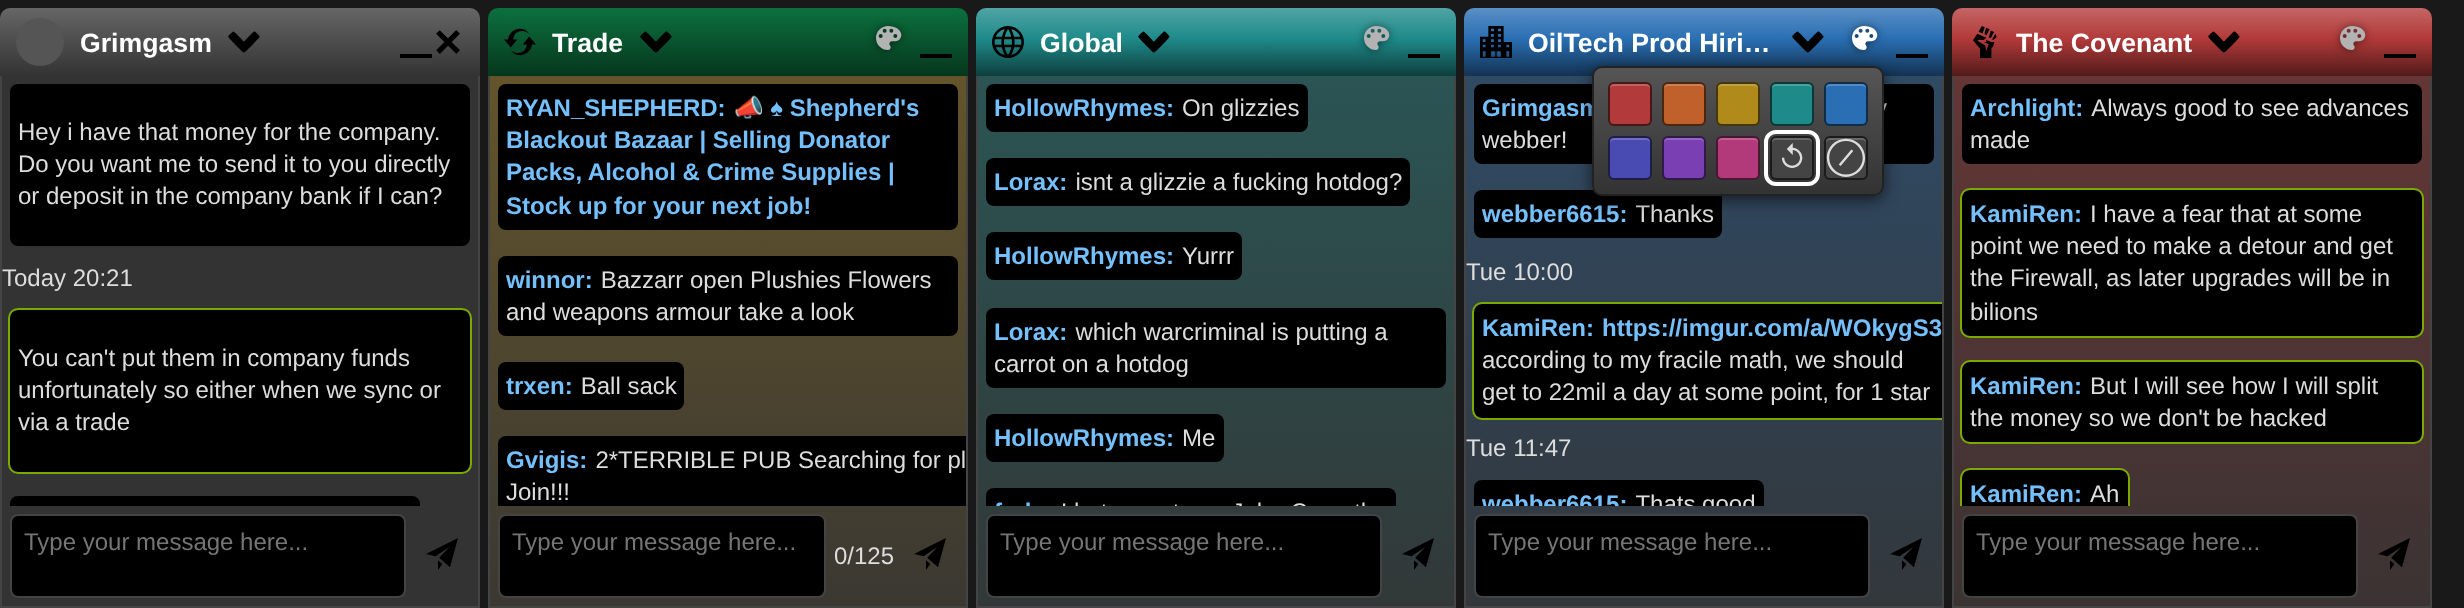
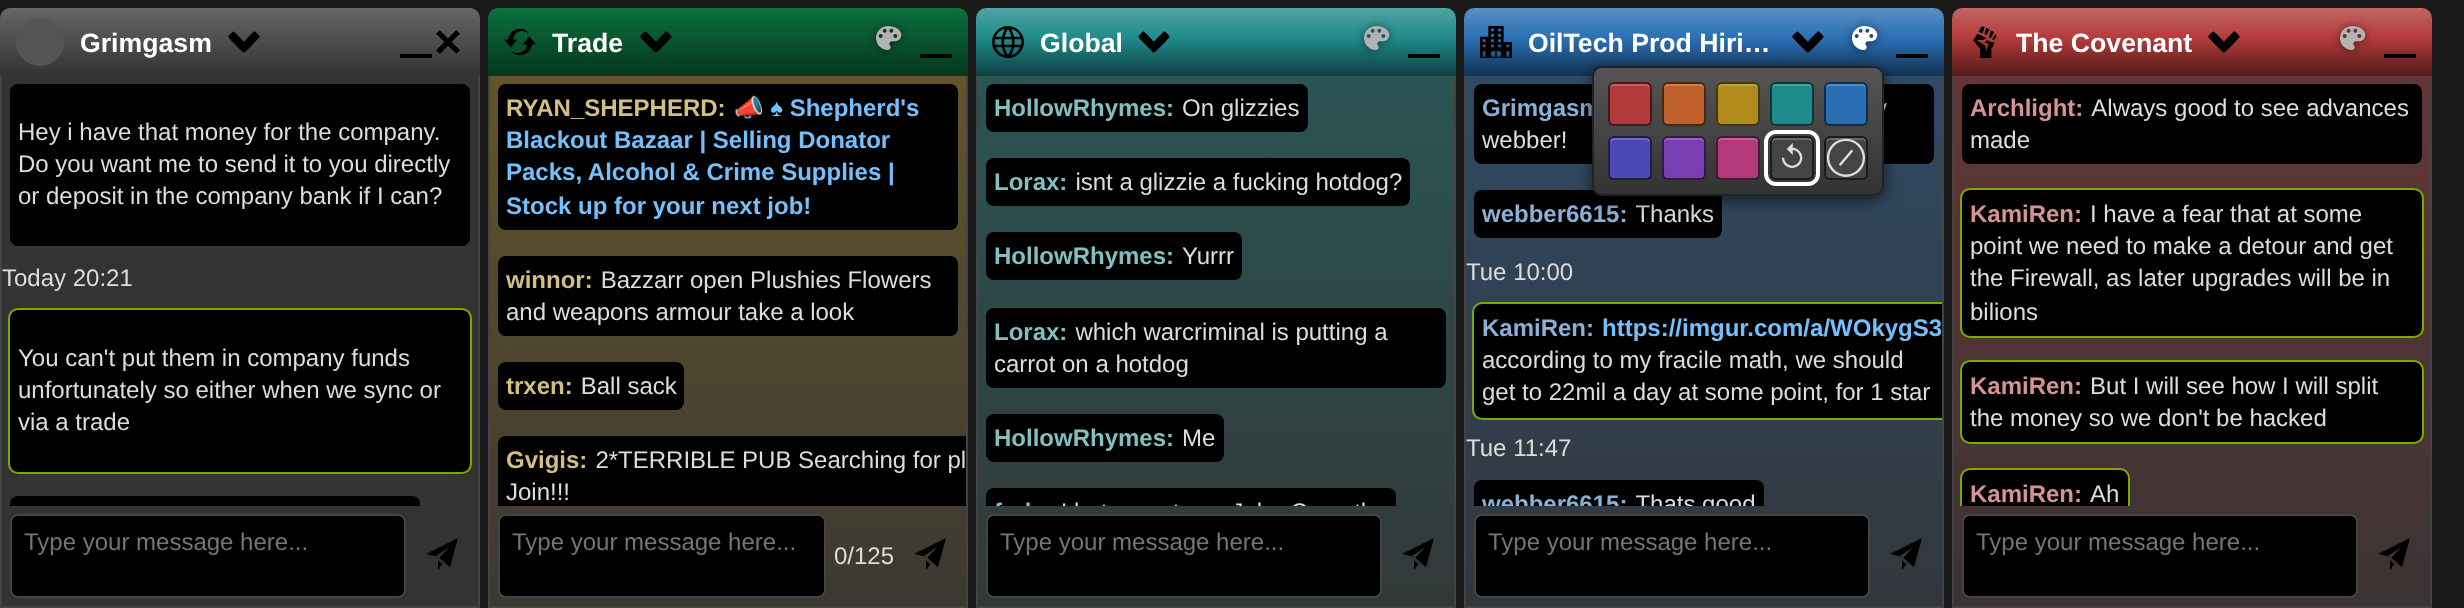
Sender names in colored chats take a light shade of the chat color

diff --git a/Torn Colored Chats/torn-colored-chats.user.js b/Torn Colored Chats/torn-colored-chats.user.js
@@ -1,7 +1,7 @@
 // ==UserScript==
 // @name         Torn Colored Chats
 // @namespace    kamiren.torn-colored-chats
-// @version      1.0.1
+// @version      1.0.2
 // @description  Gives each Torn group chat (faction, company, global, trade and more) its own color. Private chats stay as they are. A palette icon in the chat header changes the color.
 // @author       KamiRen [2805199]
 // @license      MIT
@@ -73,7 +73,9 @@
         'body.dark-mode ' + w + '{--chat-color-background:' + mix(c, '#333333', 0.1) + '}' +
         'body:not(.dark-mode) ' + w + '{--chat-color-background:' + mix(c, '#f2f2f2', 0.06) + '}' +
         'body.dark-mode ' + w + ' [class*="content___"]{background:linear-gradient(' + mix(c, '#333333', 0.38) + ',' + mix(c, '#333333', 0.06) + ')!important}' +
-        'body:not(.dark-mode) ' + w + ' [class*="content___"]{background:linear-gradient(' + mix(c, '#f2f2f2', 0.22) + ',' + mix(c, '#f2f2f2', 0.03) + ')!important}';
+        'body:not(.dark-mode) ' + w + ' [class*="content___"]{background:linear-gradient(' + mix(c, '#f2f2f2', 0.22) + ',' + mix(c, '#f2f2f2', 0.03) + ')!important}' +
+        'body.dark-mode ' + w + ' a[class*="sender___"]{color:' + mix(c, '#ffffff', 0.55) + '!important}' +
+        'body:not(.dark-mode) ' + w + ' a[class*="sender___"]{color:' + mix(c, '#000000', 0.75) + '!important}';
     }
     if (!sheet) {
       sheet = document.createElement('style');

diff --git a/Torn Colored Chats/tests/mock/chat.html b/Torn Colored Chats/tests/mock/chat.html
@@ -27,6 +27,7 @@ img{display:none}
 [class*="root___XTemB"]{display:flex;align-items:center;padding:4px;gap:4px}
 textarea{flex:1;min-width:0;height:28px;resize:none;background:#000;color:#ddd;border:1px solid #444;border-radius:4px;font:12px Arial,sans-serif;padding:6px}
 a{color:#74c0fc;text-decoration:none;font-weight:bold}
+a[class*="sender___"]{color:#fff}
 [class*="sender___"]{margin-right:4px}
 [class*="box___"]{font-size:12px;line-height:1.35}
 [class*="iconWrapper___"]{background:none;border:0}

diff --git a/Torn Colored Chats/greasyfork.md b/Torn Colored Chats/greasyfork.md
@@ -6,6 +6,7 @@
 <ul>
 <li><b>One color for each group chat.</b> Defaults: faction red, company blue, global teal, trade amber, other group chats purple.</li>
 <li><b>Palette icon in the header</b>, grey like Torn's own icons. Click it and select one of 8 colors, ↺ for the default or ⊘ for no color.</li>
+<li><b>Sender names</b> in group chats get a light shade of the chat color.</li>
 <li><b>Private chats are not changed.</b></li>
 <li><b>Torn's green "new message" header still shows.</b> No green in the palette, so new messages stay easy to see.</li>
 <li>Dark and light Torn theme.</li>

diff --git a/Torn Colored Chats/README.md b/Torn Colored Chats/README.md
@@ -16,6 +16,7 @@ a colored header and a light tint of the same color behind the messages. **Priva
   **↺** for the default color or **⊘** for no color. Your choice stays after a reload.
 - **Private chats are not changed.** They get no color and no icon.
 - **Torn's green "new message" header still shows.** The color comes back when you read the message.
+- **Sender names** in group chats get a light shade of the chat color.
 - No green in the palette, so a new message is always easy to see.
 - Works in the dark and the light Torn theme.
 
